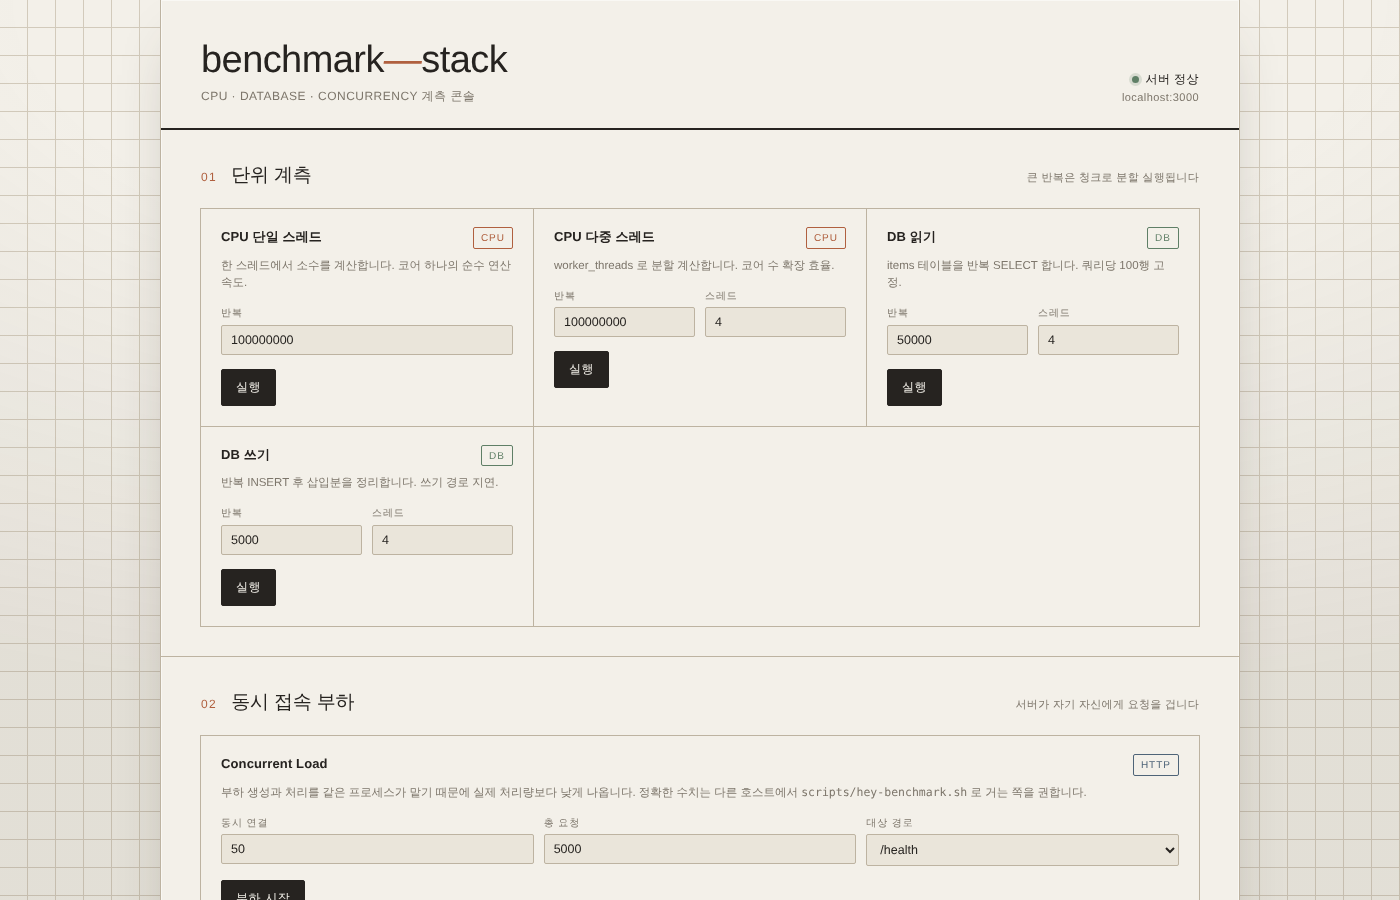
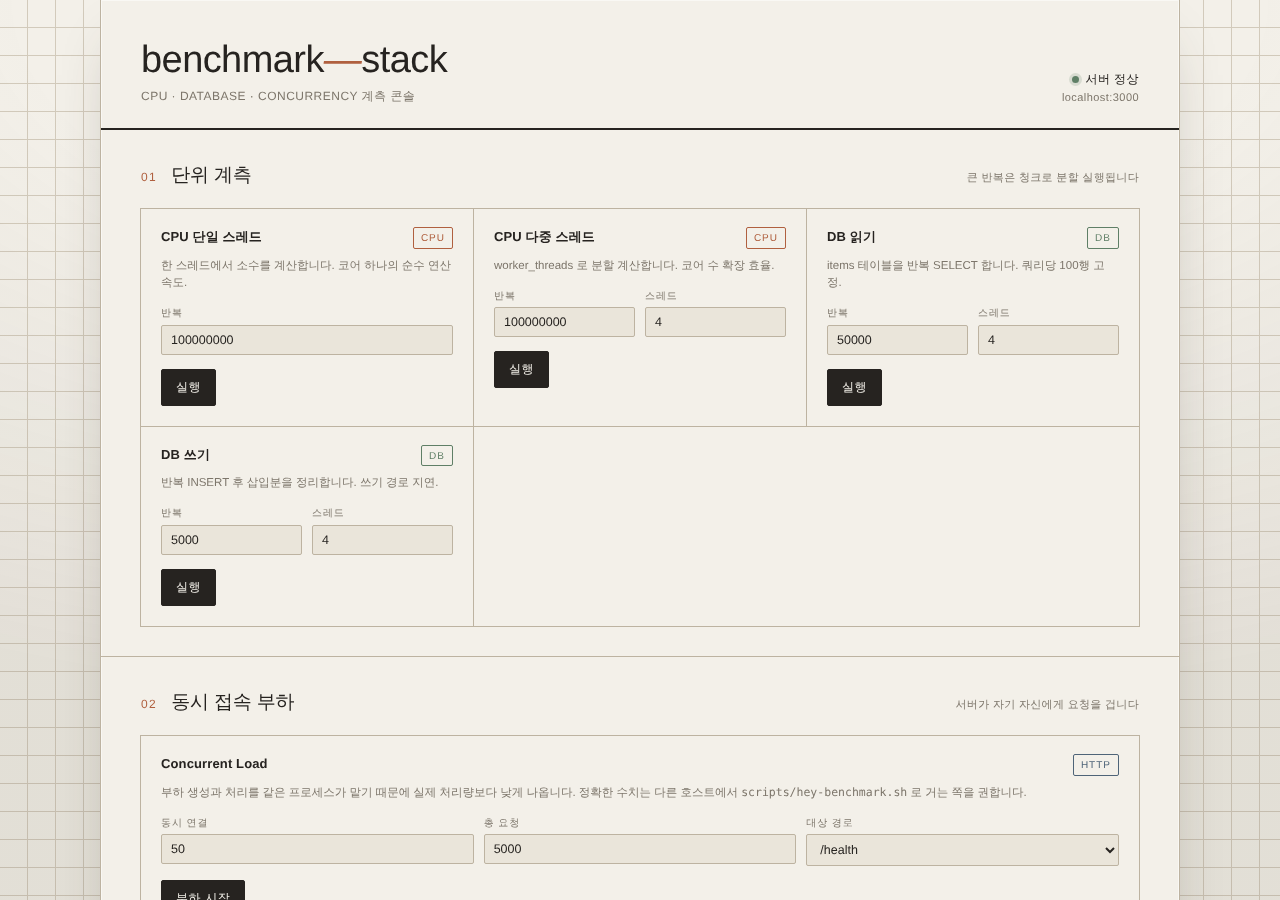
docs: expand web UI guide with per-section screenshots and explanations
Re-captured each UI section after running the default settings
(including a full batch sweep) and documented what every probe,
input, result field and history column means.

Claude-Session: https://claude.ai/code/session_016jGR8uo3nEJY7PTbTLUKof

diff --git a/README.md b/README.md
@@ -33,39 +33,108 @@ docker compose up -d
 
 DNS-01 이 필요하면 `docker compose --profile acme-dns up -d`.
 
-## 실행 가이드 (웹 UI로 벤치마크 돌려보기)
+## 이용 가이드 (웹 UI)
 
-프록시 없이 앱과 MySQL 만 띄워 웹 UI 에서 직접 계측하는 최소 절차다. 아래 스크린샷은 이 절차 그대로 4 vCPU / 15 GiB 리눅스 컨테이너에서 찍은 실제 결과이며, 수치는 환경마다 다르다.
+앱과 MySQL 만 띄워 웹 UI 에서 계측하는 절차와, 화면 각 부분이 무엇을 재고 어떻게 읽는지 정리한다.
 
-**1. 기동**
+> 아래 스크린샷과 수치는 4 vCPU / 15 GiB 리눅스 컨테이너에서 이 절차를 기본값 그대로 실행한 실제 결과다. 절대값은 하드웨어마다 다르므로 **같은 설정으로 환경끼리 비교**하는 용도로 본다.
+
+### 1. 기동
 
 ```bash
 cp .env.example .env
 docker compose up -d --build mysql app
-docker compose ps                     # 두 컨테이너 모두 (healthy) 인지 확인
+docker compose ps                     # mysql, app 모두 (healthy) 인지 확인
 curl http://localhost:3000/health     # {"status":"healthy",...}
 ```
 
-**2. 웹 UI 열기** — 브라우저에서 `http://localhost:3000`. 우측 상단이 `서버 정상` 이면 DB 연결까지 끝난 상태다.
+프록시(nginx / caddy)까지 거쳐서 재고 싶으면 `docker compose up -d` 로 전체를 올린다. 여기서는 앱에 직접 붙는다.
+
+### 2. 화면 구성
+
+브라우저에서 `http://localhost:3000` 을 연다.
 
 ![웹 UI 첫 화면](docs/images/01-overview.png)
 
-**3. 단위 계측 (01)** — CPU 단일 / CPU 다중 / DB 읽기 / DB 쓰기 카드에서 반복 수·스레드를 정하고 `실행`. 소요 시간은 반복 수에 비례하므로(위 환경에서 CPU 단일 2천만 회 ≈ 0.46초), 처음에는 반복 수를 줄여 감을 잡은 뒤 기본값으로 올리는 것을 권한다. 스크린샷에서는 CPU 단일 2천만, CPU 다중 4천만 / 4 스레드, DB 읽기 5천 / 4 스레드, DB 쓰기 2천 / 4 스레드로 돌렸다.
+- **우측 상단 상태 표시**: `/health` 를 30초마다 호출한다. `서버 정상` 이면 계측 준비가 끝난 것이고, `서버 응답 없음` 이면 앱 컨테이너 로그를 먼저 본다. 그 아래는 지금 접속한 호스트:포트다.
+- 화면은 위에서부터 **01 단위 계측 → 02 동시 접속 부하 → 03 종합 계측 → 04 계측 기록** 순서다. 01~03 에서 실행한 결과는 모두 DB 에 저장돼 04 표에 쌓인다.
+- 계측이 하나 돌아가는 동안에는 다른 버튼이 잠긴다. 서로 자원을 뺏어 수치가 섞이지 않게 하기 위해서다.
 
-**4. 동시 접속 부하 (02)** — 동시 연결·총 요청·대상 경로를 정하고 `부하 시작`. RPS, 평균 / p95 / p99 응답시간, 오류율과 판정이 표시된다. 서버가 자기 자신에게 요청을 거는 방식이라 실제 처리량보다 낮게 나오므로, 정확한 수치는 [외부 부하 스크립트](#외부-부하-스크립트)로 잰다.
+### 3. 단위 계측 (01)
 
-![동시 접속 부하 결과 (동시 50 / 2,000 요청)](docs/images/02-concurrent.png)
+![단위 계측](docs/images/02-unit.png)
 
-**5. 계측 기록 (04)** — 모든 결과는 `performance_tests` 테이블에 저장되고 하단 표에 쌓인다. `새로고침` 으로 다시 불러오고, 행별 `삭제` 또는 `전체 삭제` 로 정리한다. 같은 내용은 `GET /api/performance/history` 로도 받을 수 있다.
+네 개의 카드가 각각 하나의 자원을 잰다. 값을 정하고 `실행` 을 누르면 하단 게이지에 진행 상황과 소요 시간(`DB 쓰기 완료 — 2.51s`)이 나온다.
 
-![계측 기록](docs/images/03-history.png)
+| 카드 | 무엇을 하나 | 입력값 | 보는 법 |
+|---|---|---|---|
+| **CPU 단일 스레드** | 한 스레드에서 소수를 찾는다. 반복 수의 1/100 개(1억 → 소수 100만 개)를 찾을 때까지 계산 | 반복 (기본 1억) | 코어 하나의 연산 성능. 소요 시간이 짧을수록 좋다 |
+| **CPU 다중 스레드** | 반복 수를 스레드 수로 나눠 `worker_threads` 로 동시에 소수 계산 | 반복 (기본 1억), 스레드 (기본 4) | 스레드를 늘렸을 때 시간이 줄어드는 정도로 멀티코어 활용도를 본다 |
+| **DB 읽기** | `SELECT * FROM items LIMIT 100` 을 반복. 스레드마다 별도 DB 연결 사용 | 반복 (기본 5만), 스레드 (기본 4) | 초당 쿼리 수. DB 와 네트워크 지연에 민감하다 |
+| **DB 쓰기** | `items` 에 한 행씩 INSERT 를 반복한 뒤, 넣은 행을 다시 지워 원상복구 | 반복 (기본 5천), 스레드 (기본 4) | 쓰기 경로(디스크·트랜잭션) 성능. 정리(DELETE) 시간도 포함된다 |
 
-**6. 종합 계측 (03)** — `스윕 시작` 은 네 단위 계측을 10회 반복해 `*_AVG` 로 평균을 기록한다. 세트 사이 대기가 있어 수십 분이 걸리므로 환경 간 비교용 최종 측정에 쓴다.
+- **청크 분할**: 요청 하나가 너무 길어지지 않도록 브라우저가 CPU 는 1천만 회, DB 는 1만 회 단위로 잘라 여러 번 호출하고 시간을 합산한다. 기록의 `10 청크` 같은 표시가 이것이다.
+- **스레드 기본값 4**: 서버의 vCPU 수에 맞춰 바꿔 보면 확장성을 볼 수 있다.
+- **주의**: CPU 다중은 스레드마다 처음부터 소수를 다시 찾으므로 단일과 작업량이 같지 않다. 단일과 다중을 직접 비교하지 말고, **같은 항목을 환경끼리** 비교한다.
+- 참고 수치(위 환경, 기본값): CPU 단일 2.16s · CPU 다중 2.40s · DB 읽기 7.73s · DB 쓰기 2.51s.
 
-**7. 정리**
+### 4. 동시 접속 부하 (02)
+
+![동시 접속 부하 결과](docs/images/03-concurrent.png)
+
+앱 서버가 **자기 자신에게** HTTP 요청을 동시에 보내 응답성을 잰다.
+
+| 입력 | 의미 |
+|---|---|
+| 동시 연결 | 동시에 열어 두는 요청 수 (최대 500) |
+| 총 요청 | 보낼 요청의 총 개수 (최대 50,000) |
+| 대상 경로 | `/health`(가장 가벼움), `/api/performance/history`(DB 조회 포함), `/`(이 웹 UI 의 정적 HTML) 중 선택 |
+
+결과 패널 읽는 법:
+
+- **RPS**: 초당 처리한 요청 수.
+- **평균 응답 / P95**: 평균과, 요청 95% 가 이 시간 안에 끝났다는 값. 체감 지연은 평균보다 P95 쪽이 잘 드러낸다.
+- **오류율**: 실패한 요청 비율.
+- **응답 분포**: min · p50 · p95 · p99 · max 와 성공·실패 건수.
+- **판정**: 오류율 1% 미만이고 p95 500ms 미만이면 `안정`(다음엔 1.5배 동시 연결을 권함), 오류율 5% 미만이고 p95 2초 미만이면 `주의`, 그 밖은 `불안정`(0.7배로 줄일 것을 권함). 권장값대로 동시 연결을 조정하며 반복하면 한계점을 찾을 수 있다.
+
+부하를 만드는 쪽과 받는 쪽이 같은 프로세스라 실제 처리량보다 낮게 나온다. 정확한 수치는 다른 호스트에서 [외부 부하 스크립트](#외부-부하-스크립트)로 잰다.
+
+### 5. 종합 계측 (03)
+
+![종합 계측 진행 중](docs/images/04-batch-running.png)
+
+`스윕 시작` 을 누르면 확인 창이 뜨고, 승인하면 다음을 자동으로 수행한다.
+
+1. CPU 단일(1억) → CPU 다중(1억, 4 스레드) → DB 읽기(5만, 4 스레드) → DB 쓰기(5천, 4 스레드)를 한 세트로 실행
+2. 항목 사이 5초, 세트 사이 10초 쉬면서 **10세트** 반복
+3. 항목별 평균을 `CPU 단일 · 평균` 처럼 `*_AVG` 기록으로 저장 (각 세트의 원본 시간도 함께 저장)
+
+게이지 아래에 `세트 1/10 — DB 읽기` 처럼 현재 위치가 표시된다. 위 환경에서는 약 7분 걸렸고, 느린 환경일수록 오래 걸린다. 한 번 잰 값보다 흔들림이 적으므로 **환경 간 비교의 최종 수치**로 쓴다.
+
+### 6. 계측 기록 (04)
+
+![계측 기록](docs/images/05-history.png)
+
+모든 결과가 `performance_tests` 테이블에 저장되고 최신순으로 최대 50건이 보인다.
+
+| 열 | 의미 |
+|---|---|
+| 항목 | 계측 종류. 색으로 구분(주황 CPU, 초록 DB, 파랑 HTTP). `· 평균` 은 종합 계측 결과 |
+| 시각 | 기록 시각 |
+| 반복 | 실행한 반복 수 (동시 접속은 총 요청 수) |
+| 소요 | 전체 걸린 시간 |
+| 처리량 | `반복 ÷ 소요`(/s). 동시 접속은 RPS. 같은 항목·같은 반복 수끼리 비교한다 |
+| 세부 | 스레드 수, 찾은 소수·읽은 행·삽입 행 수, 청크 수, 동시 접속의 응답 분포와 판정 등 |
+
+- `새로고침`: 기록을 다시 불러온다. 외부 스크립트(`hey`/`wrk`)로 잰 결과도 여기에 나타난다.
+- `삭제` / `전체 삭제`: 개별 또는 전체 기록을 지운다(확인 창이 뜬다). 되돌릴 수 없다.
+- 같은 데이터는 `GET /api/performance/history` 로도 받을 수 있어, 환경별 결과를 모아 비교할 때 쓴다.
+
+### 7. 정리
 
 ```bash
-docker compose down        # 컨테이너만 정리
+docker compose down        # 컨테이너만 정리 (기록 유지)
 docker compose down -v     # MySQL 볼륨까지 삭제 (기록 초기화)
 ```
 
